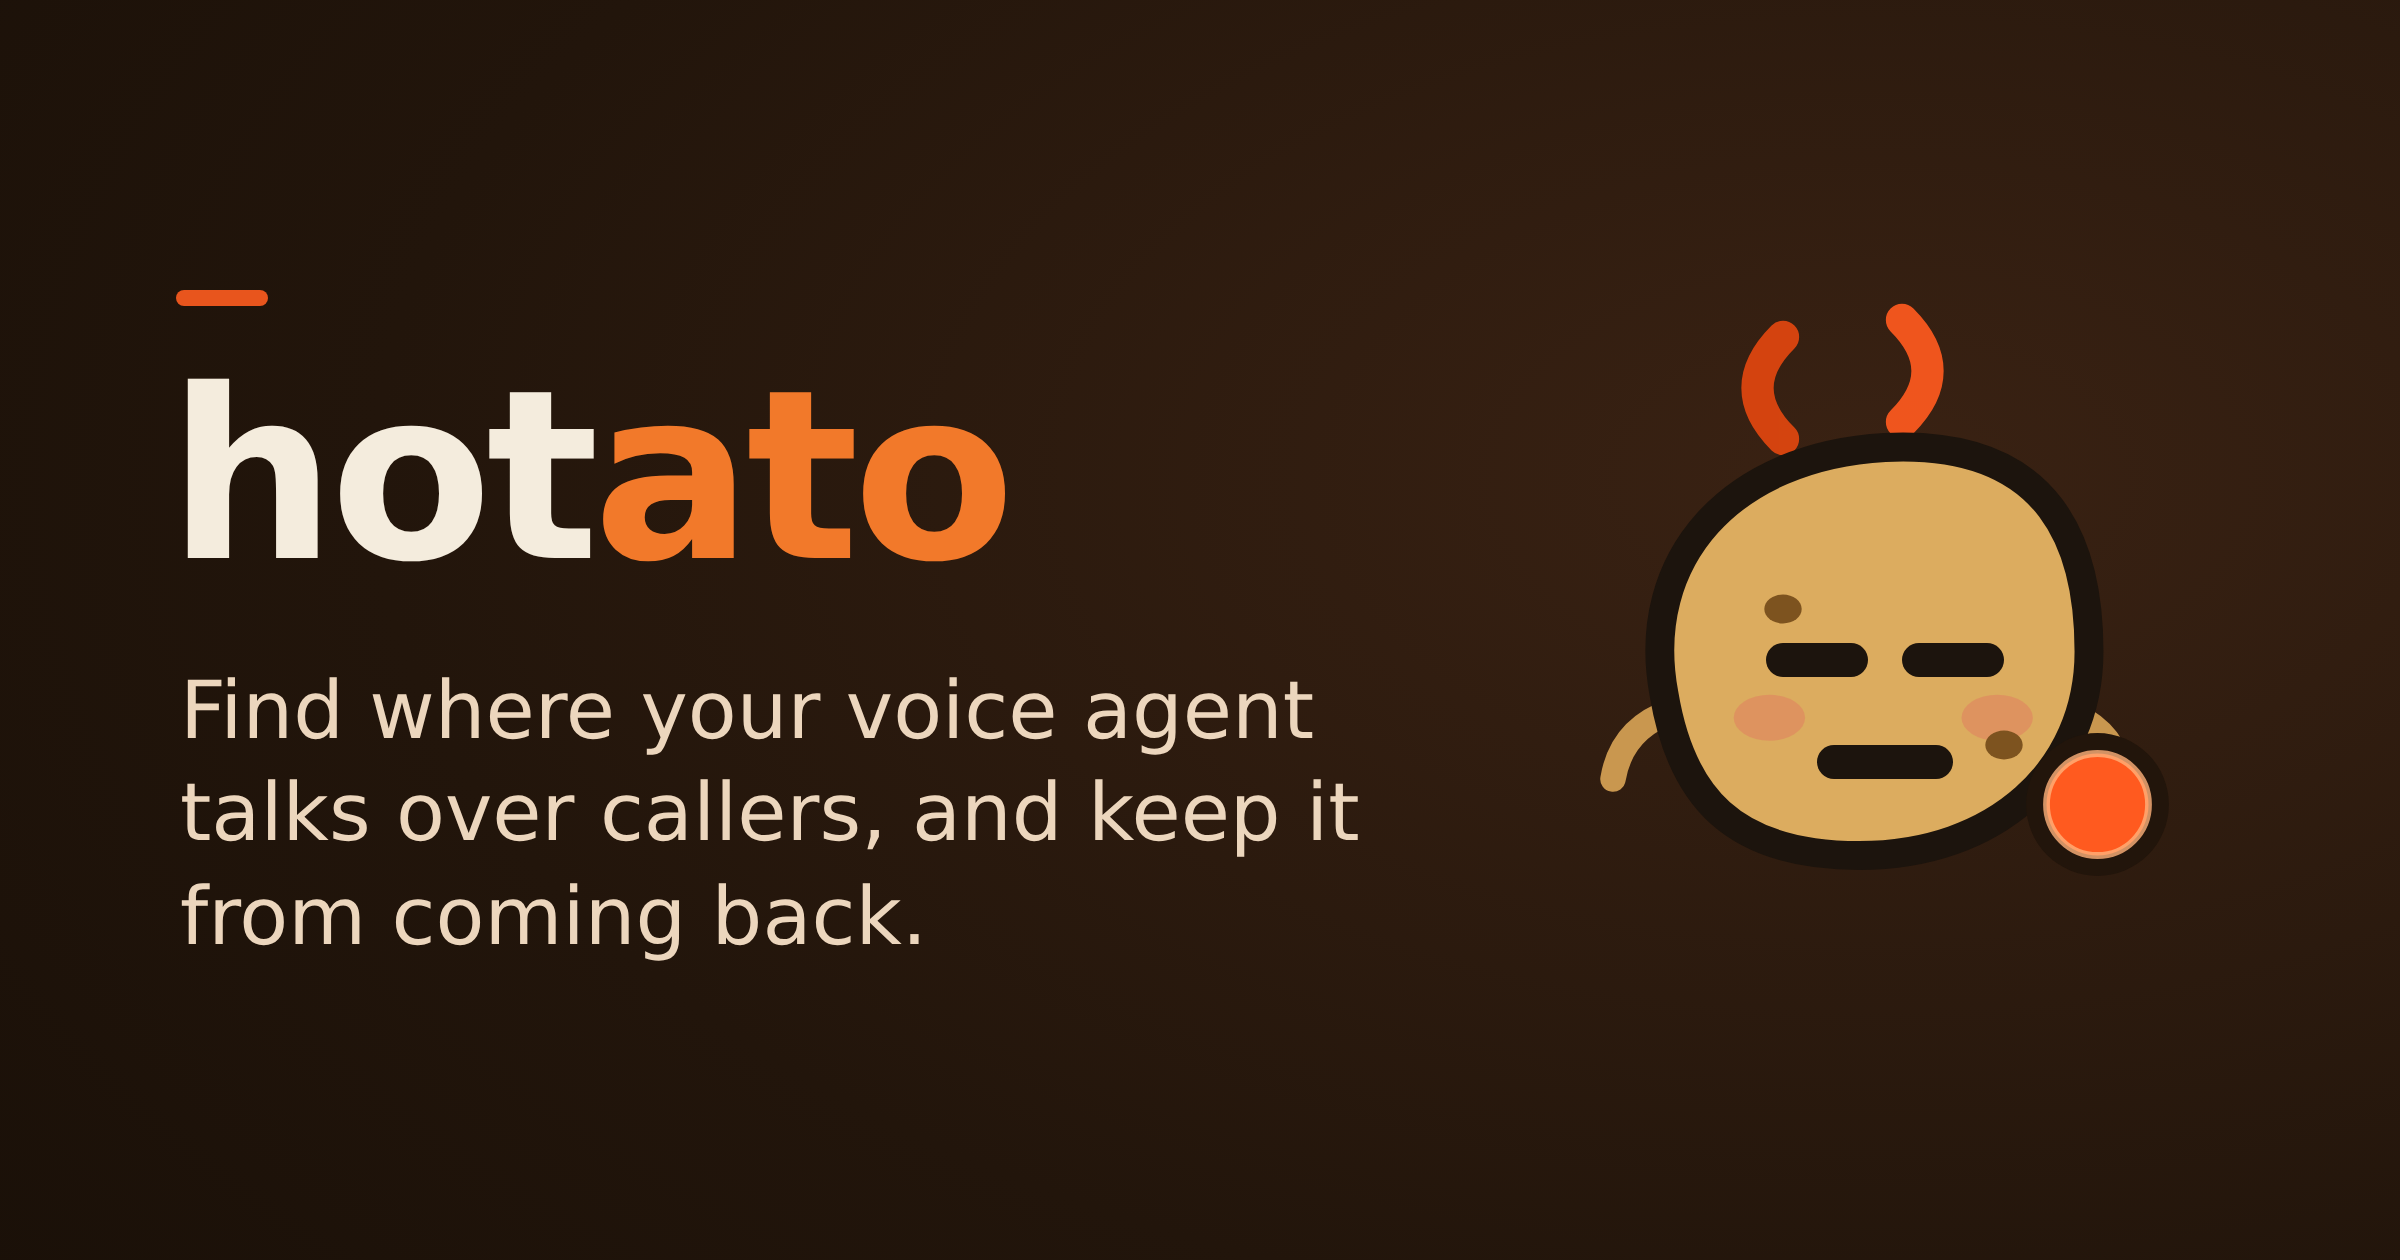
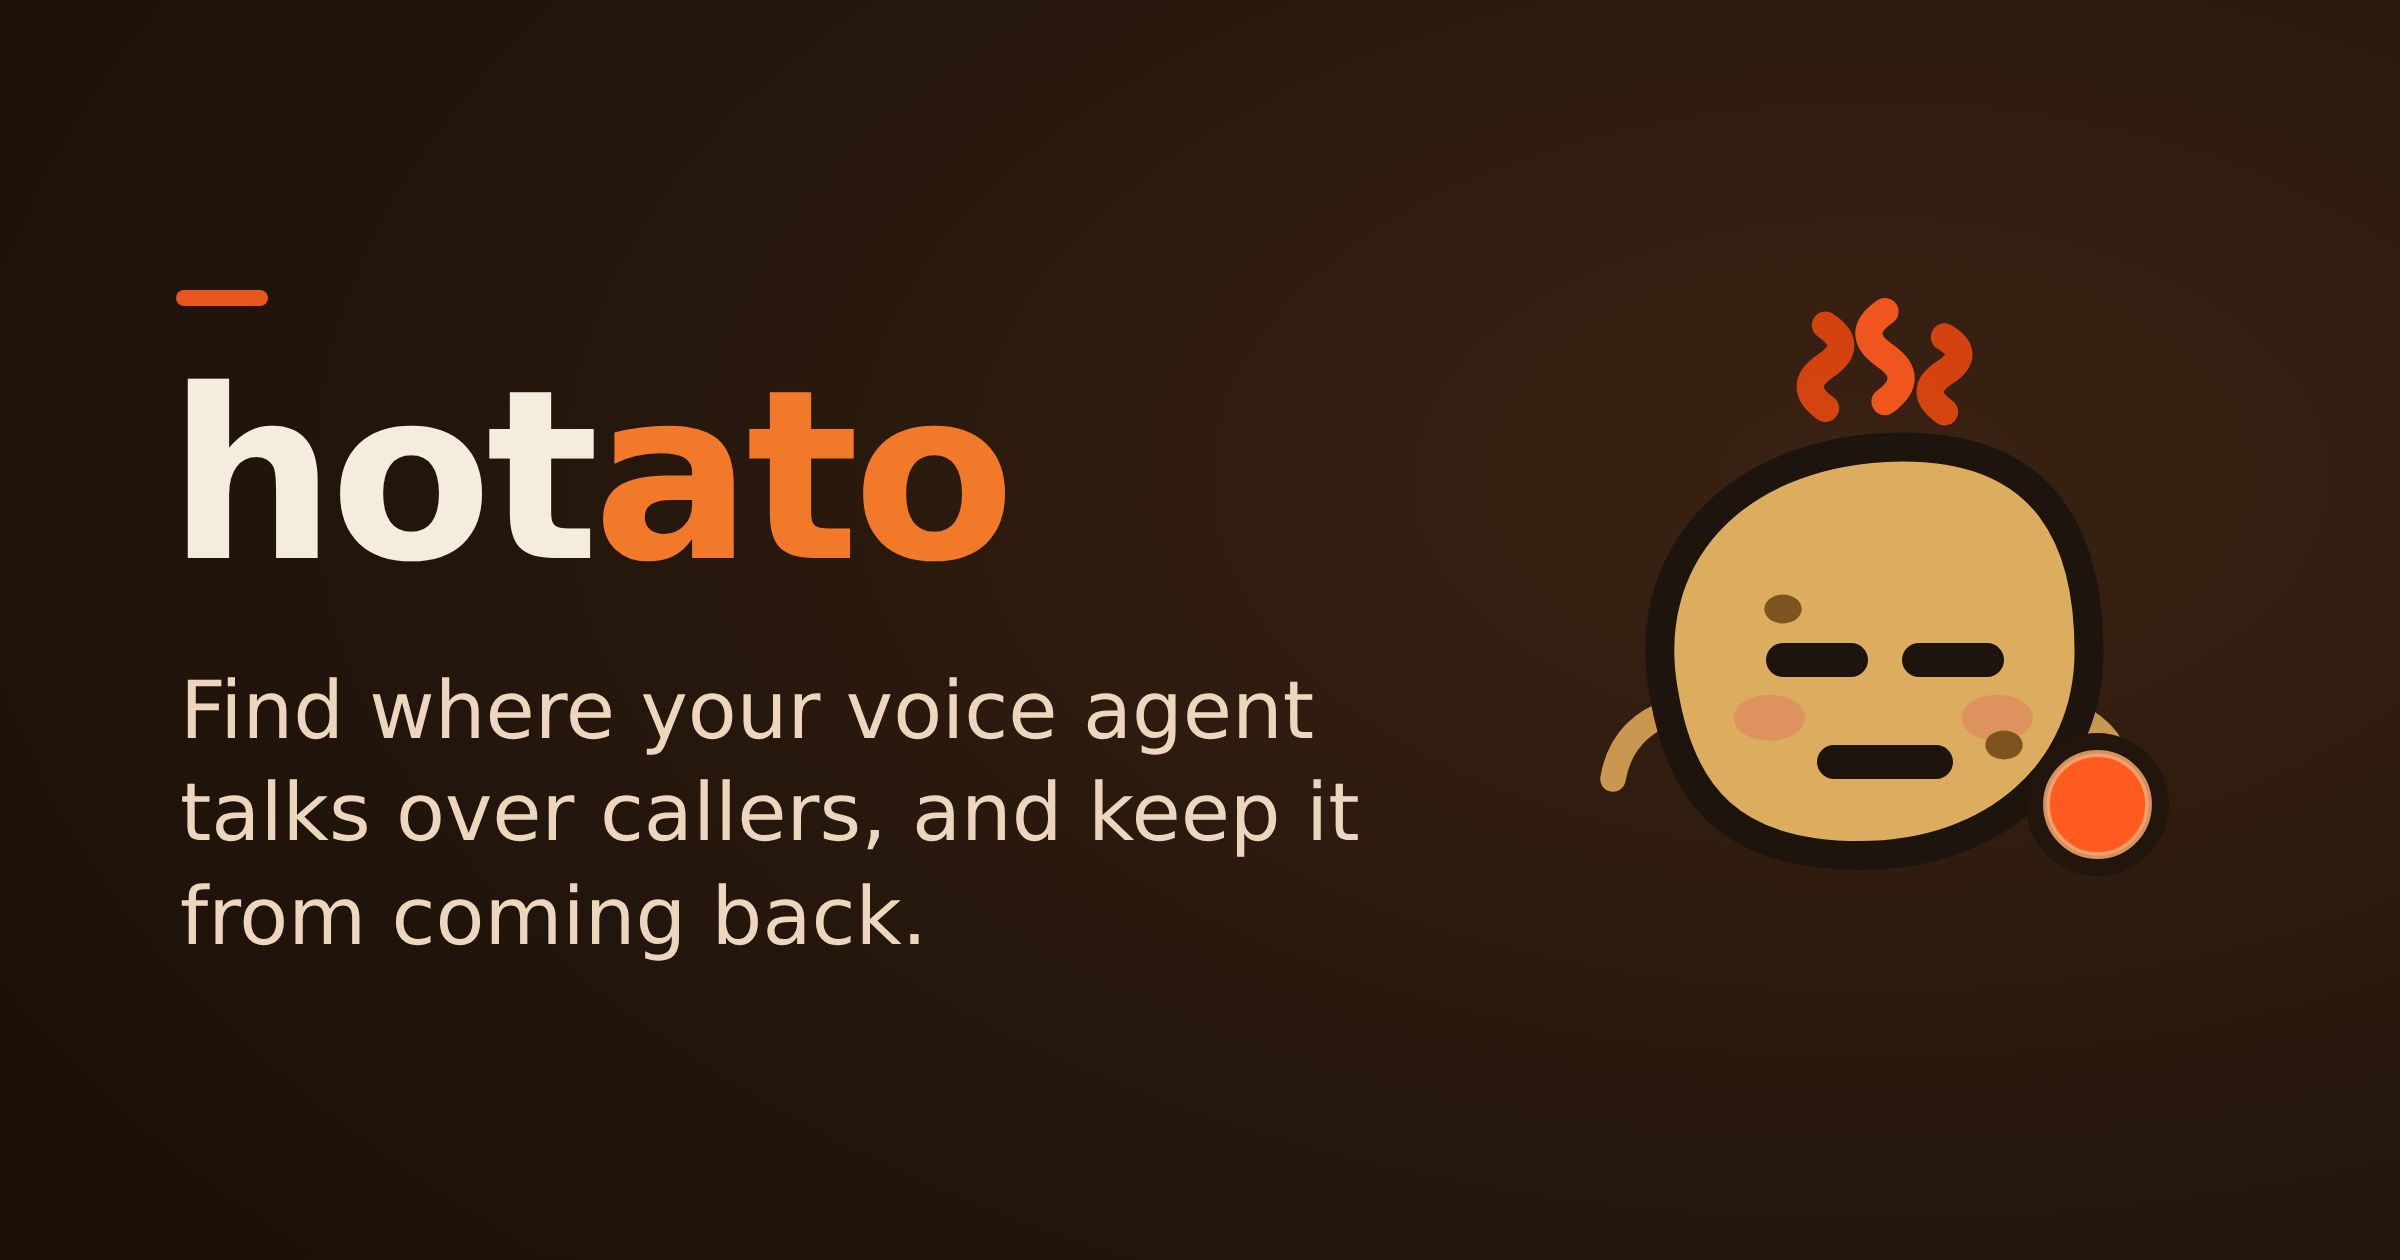
fix: mascot steam reads as steam, not horns (centered detached 3-wisp cluster)

Changed region(s): [[0.7188, 0.2167, 0.8438, 0.3714]]

diff --git a/.github/banner.html b/.github/banner.html
@@ -39,9 +39,11 @@
     </div>
     <div class="art">
       <svg width="340" height="340" viewBox="0 0 40 40" xmlns="http://www.w3.org/2000/svg" aria-label="hotato mascot">
-        <g opacity="0.92">
-          <path d="M15 9 q-3 -3 0 -6" fill="none" stroke="#e2470f" stroke-width="1.9" stroke-linecap="round"/>
-          <path d="M22 8 q3 -3 0 -6" fill="none" stroke="#ff5a1f" stroke-width="1.9" stroke-linecap="round"/>
+        <!-- steam: 3 thin wavy verticals, centered over the crown, detached from the silhouette, staggered heights/phases so it never reads as horns -->
+        <g fill="none" stroke-linecap="round" opacity="0.92">
+          <path d="M17.5 7.2 q-1.8 -1.3 0 -2.5 q1.8 -1.2 0 -2.4" stroke="#e2470f" stroke-width="1.6"/>
+          <path d="M21 6.8 q1.9 -1.4 0 -2.7 q-1.9 -1.3 0 -2.6" stroke="#ff5a1f" stroke-width="1.6"/>
+          <path d="M24.5 7.4 q-1.7 -1.2 0 -2.3 q1.7 -1.1 0 -2.1" stroke="#e2470f" stroke-width="1.6"/>
         </g>
         <!-- little arms -->
         <path d="M8.5 25 q-3 1 -3.5 4" fill="none" stroke="#c9974f" stroke-width="1.5" stroke-linecap="round"/>